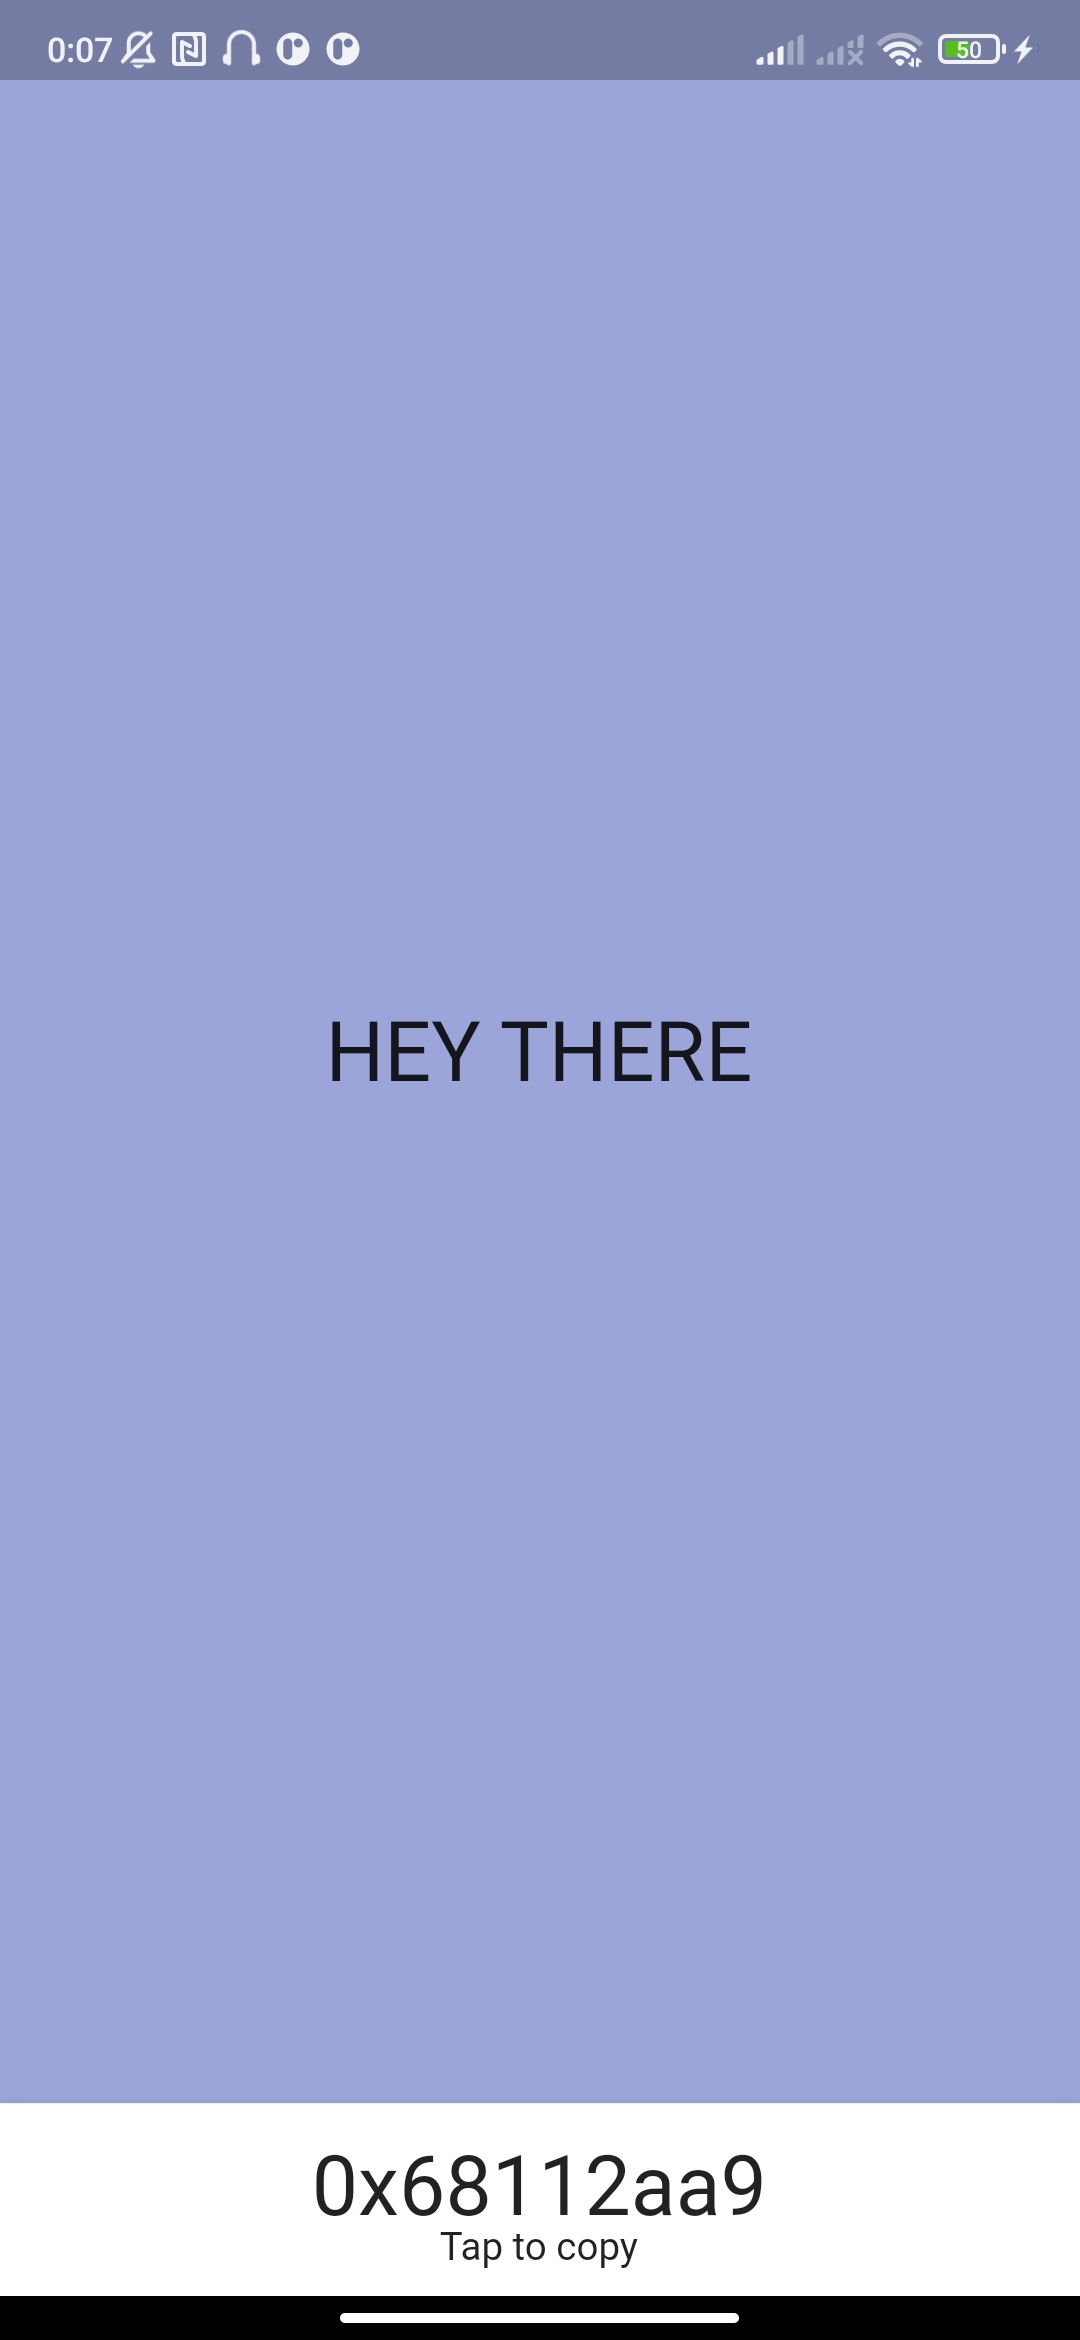
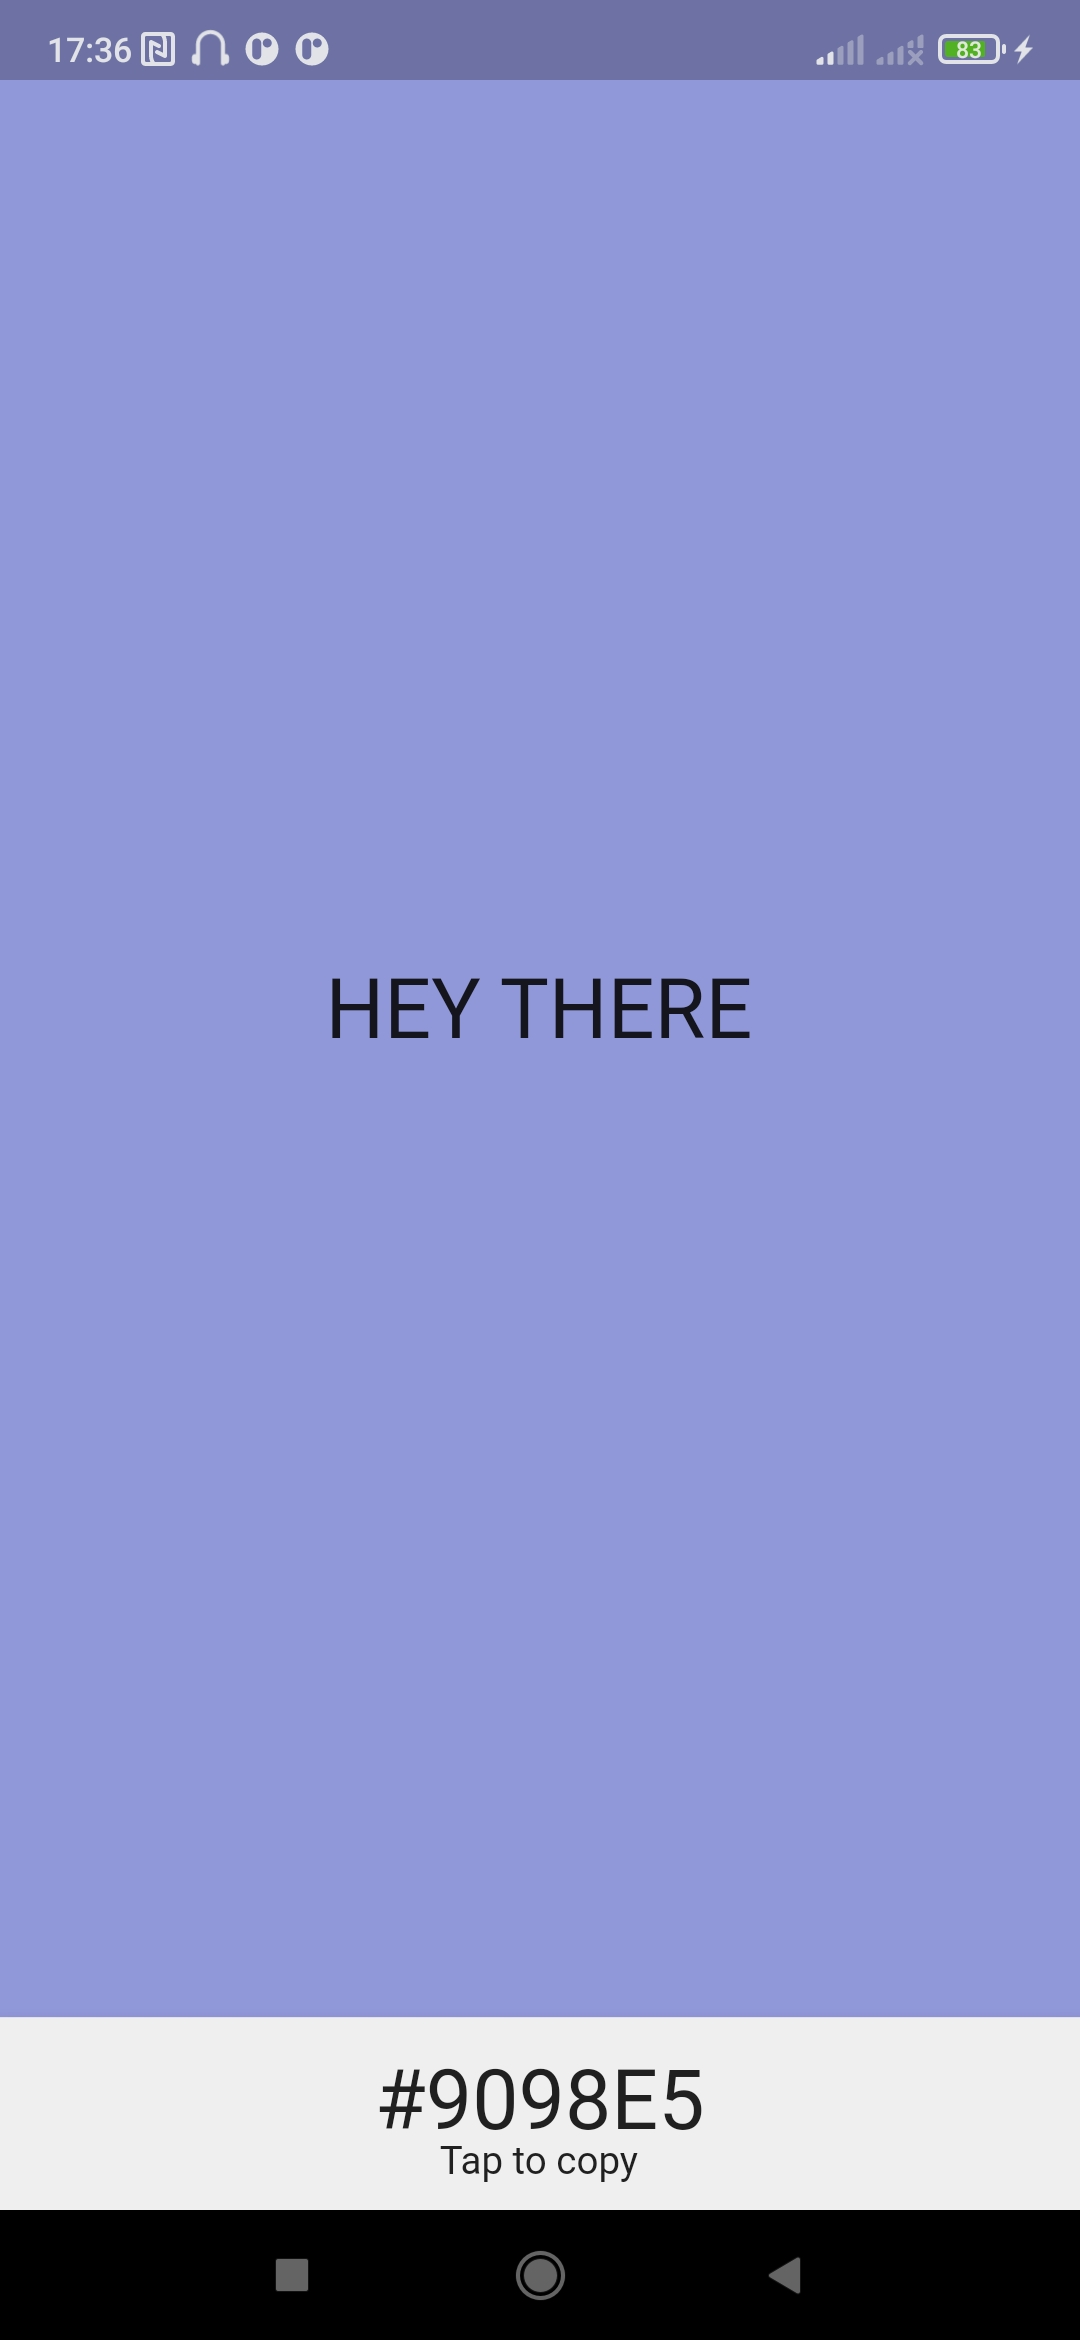
push 1

diff --git a/lib/screens/widgets/custom_tool_tip.dart b/lib/screens/widgets/custom_tool_tip.dart
@@ -11,13 +11,6 @@ class CustomToolTip extends StatelessWidget {
       child: Tooltip(
         preferBelow: false,
         message: '',
-        decoration: const BoxDecoration(color: Colors.white),
-        triggerMode: TooltipTriggerMode.tap,
-        onTriggered: () {
-          Clipboard.setData(
-            ClipboardData(text: text),
-          );
-        },
         textStyle: const TextStyle(fontSize: 30),
         child: GestureDetector(
           child: Container(
@@ -37,16 +30,20 @@ class CustomToolTip extends StatelessWidget {
         Clipboard.setData(
           ClipboardData(text: text),
         );
-        ScaffoldMessenger.of(context).showSnackBar(
-          const SnackBar(
-            content: Text(
-              'Color has copied',
-              textAlign: TextAlign.center,
-            ),
-            duration: Duration(seconds: 2),
-          ),
-        );
+        scaffoldMesseg(context);
       },
+    );
+  }
+
+  void scaffoldMesseg(BuildContext context) {
+    ScaffoldMessenger.of(context).showSnackBar(
+      const SnackBar(
+        content: Text(
+          'Color has copied',
+          textAlign: TextAlign.center,
+        ),
+        duration: Duration(seconds: 2),
+      ),
     );
   }
 }

diff --git a/lib/screens/random_color_screen.dart/random_color_screen.dart b/lib/screens/random_color_screen.dart/random_color_screen.dart
@@ -9,15 +9,12 @@ class RandomColorScreen extends StatefulWidget {
   @override
   State<RandomColorScreen> createState() => _RandomColorScreenState();
 }
-
 class _RandomColorScreenState extends State<RandomColorScreen> {
-  final random = Random();
 
   @override
   Widget build(BuildContext context) {
-    final randomColor = Color.fromARGB(random.nextInt(256), random.nextInt(256),
-        random.nextInt(256), random.nextInt(256));
 
+    final Color randomColor = colorRandomizer();
     final String colorValue = randomColor.toHexTtriplet();
 
     return Scaffold(
@@ -44,5 +41,12 @@ class _RandomColorScreenState extends State<RandomColorScreen> {
         ),
       ),
     );
+  }
+
+  Color colorRandomizer() {
+    final random = Random();
+    final randomColor = Color.fromARGB(random.nextInt(256), random.nextInt(256),
+        random.nextInt(256), random.nextInt(256));
+    return randomColor;
   }
 }
